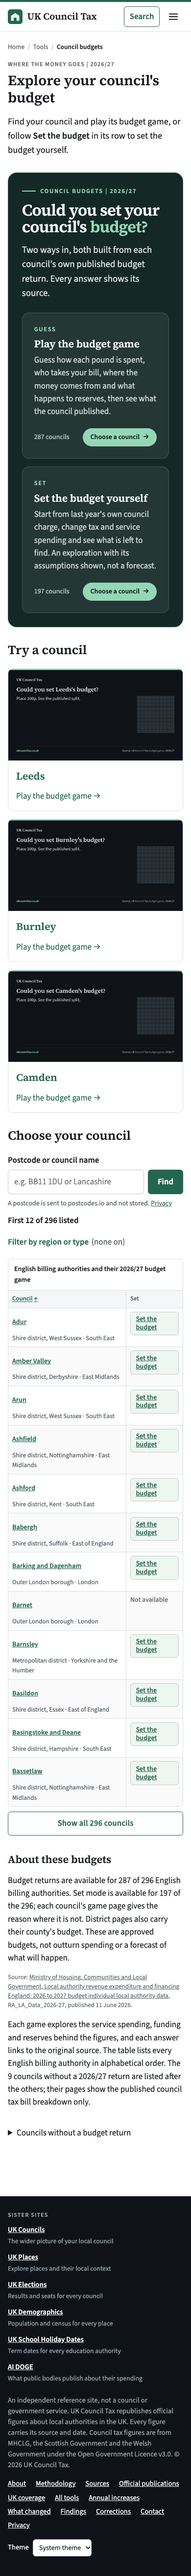
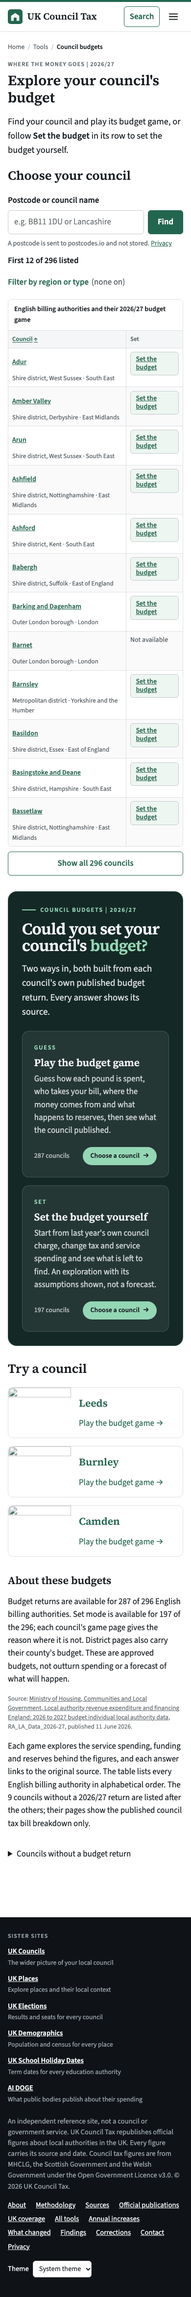
W1 fix pass: picker first on the hub, clear Set doors, Guess starts the game
- Hub: the council picker comes straight after the page head again, so on a
  phone its box, button and first row are on the first screen; the two door
  band and the featured councils follow, the cards as compact rows on phones.
  The original picker test is restored unchanged.
- Set door: an excluded council's reason sits under the doors with a label,
  never inside the door's link text. Burnley's door reads only as the
  scenario game.
- Mode links: no Set link where Set is not offered; Burnley shows Guess and
  the council's own gap.
- Game page: no stacked gap above the mode links; the Guess door starts
  round one once the script runs.
- docs/STATE.md left to its own docs PR; captures retaken from this build
  and compressed (9.4 MB to 3.3 MB).

diff --git a/e2e/council-picker.spec.ts b/e2e/council-picker.spec.ts
@@ -182,14 +182,12 @@ for (const { path, destination, tail } of PAGES) {
       await context.close();
     });
 
-    test("on a phone the picker entry shows the box, its button and the first match", async ({ browser, baseURL }) => {
+    test("on a phone the box, its button and the first match are on the first screen", async ({ browser, baseURL }) => {
       const context = await browser.newContext({ viewport: { width: 375, height: 812 } });
       const page = await context.newPage();
       await page.route("https://static.cloudflareinsights.com/**", (route) => route.abort());
       await page.route("https://cloudflareinsights.com/**", (route) => route.abort());
       await page.goto(`${baseURL}${path}`);
-      // W1 gives the budget hub a hero door into its picker; other hubs open directly on it.
-      if (path === "/tools/budget/") await page.locator('[data-play-door="guess"]').click();
       for (const selector of ["[data-picker-input]", "[data-picker-submit]"]) {
         const box = (await page.locator(selector).boundingBox())!;
         expect(box.y).toBeGreaterThanOrEqual(0);

diff --git a/e2e/helpers/budget-set.ts b/e2e/helpers/budget-set.ts
@@ -133,7 +133,8 @@ export function budgetSetJourneys() {
       await expect(entry).toHaveText('The parish amounts in the budget and tax returns do not reconcile within the published precision.');
       await expect(page.locator('[data-scenario-game-link]')).toHaveAttribute('href','/councils/burnley/budget-game/');
       await expect(page.locator('[data-budget-door="set"]')).toHaveAttribute('href','/councils/burnley/budget-game/');
-      expect(await entry.evaluate(e => e.closest('[data-budget-door]')?.getAttribute('data-budget-door'))).toBe('set');
+      // The reason sits under the doors, labelled, not inside the Set door's link text.
+      expect(await entry.evaluate(e => !!e.closest('[data-budget-doors]') && !e.closest('[data-budget-door]'))).toBe(true);
       expect(await page.evaluate(() => document.documentElement.scrollWidth)).toBe(width);
       await entry.scrollIntoViewIfNeeded();
       await page.screenshot({path:`output/playwright/c2-excluded-${width}-${theme}.png`});

diff --git a/e2e/budget-doors.spec.ts b/e2e/budget-doors.spec.ts
@@ -18,7 +18,9 @@ for (const route of ['', 'leeds/', 'burnley/', 'camden/']) {
       if (route) {
         await expect(page.locator('[data-budget-modes] a').first()).toHaveText('Guess');
         const setDoor = page.locator('[data-budget-door="set"]');
-        await expect(setDoor.locator('[data-budget-set-entry]')).toHaveCount(1);
+        await expect(page.locator('[data-budget-set-entry]')).toHaveCount(1);
+        await expect(setDoor.locator('[data-budget-set-entry]')).toHaveCount(route === 'burnley/' ? 0 : 1);
+        if (route === 'burnley/') await expect(page.locator('[data-budget-modes] a')).toHaveText(['Guess', "The council's own gap"]);
         await expect(page.locator('#game-heading')).toHaveText(`Could you set ${route === 'leeds/' ? 'Leeds' : route === 'burnley/' ? 'Burnley' : 'Camden'}'s budget?`);
       } else {
         await expect(page.locator('th.picker-action')).toHaveText('Set');

diff --git a/src/scripts/budget-game.ts b/src/scripts/budget-game.ts
@@ -314,6 +314,11 @@ for (const root of document.querySelectorAll<HTMLElement>('[data-budget-game]'))
     }
   }
   root.querySelector('[data-game-start]')!.addEventListener('click', start);
+  // W1: the Guess door starts the game itself once the script is running; without it, the link still jumps to the game.
+  root.querySelector('[data-budget-door="guess"]')?.addEventListener('click', event => {
+    if (controls.hidden) return;
+    event.preventDefault(); start();
+  });
   const restore = () => {
     const restored = readScores(location.hash, data.rounds.length);
     if (restored) {scores = restored; summary(true);}

diff --git a/docs/STATE.md b/docs/STATE.md
@@ -1,13 +1,13 @@
-# State | UK Council Tax | 15 November 2026, W1
+# State | UK Council Tax | 15 November 2026, late night
 
-- **Base:** `5bc7bed`, PR 88 merged. C6 levels day staging is on main; the W1 to W3 file hold has ended. Main advanced to `95e0d82` with the PR 91 schedules audit during W1 verification.
-- **W1:** branch `feat/w1-budget-doors`, worktree `~/wt/uct-w1`. Game desk heroes, equal Guess and Set doors, mode links, hub PlayBand and featured cards, phone Set column and eligible score-card invitation. PR evidence includes all local gates, number comparison and captures.
-- **Eligibility:** 197 Set routes. Burnley uses its separate council-gap scenario; the other 98 excluded councils retain their exact reasons. Non-England codes render no entry.
-- **Preserved:** published figures, C1b static-number fixture, game titles and H1 text, opening rail, chart sources and downloads, game arithmetic and CSP policy. The C2 distribution assertion follows the entry inside its containing card link.
-- **Next:** W2 set-page workbench, then W3 controls. W1 adds only mode links on set pages; the workbench redesign remains separate.
-- **Other work:** towns data and pages remain separate sessions; the special-expense schedules audit merged as PR 91. See `docs/PROMPTS-2026-11-15-W1-W3-AND-TOWNS.md` and `docs/TOWNS-RESEARCH-2026-11-15.md`.
+- **Live:** main `b5f8ced` (PR 89, W0), published 15 November 18:47: the budget band with Play and Set doors on the homepage and `/tools/`, the England map card, Set links on 197 rows of `/tools/budget/`, the 404 with the tools.
+- **Not yet restyled:** `/tools/budget/`, `/tools/budget/<slug>/` and `/set/`. That is W1 to W3, which wait on PR 88 because it holds those files.
+- **Open:** PR 88 (C6 levels day staging, draft, waits on Tom's six decisions, defaults in the prompts file); this docs PR (plan and towns research); UK Councils PR 62; Estate Kit PRs 27 and 28.
+- **Next:** `docs/PROMPTS-2026-11-15-W1-W3-AND-TOWNS.md`. Wave 1 now: PR 88 decisions and merge (Opus), towns data layer (Opus), special expense council schedules (Codex). Wave 2: W1 (Codex) beside towns pages (Opus). Then W2 (Codex), then W3 (Opus).
+- **Town league table:** asked for by Tom on 15 November. Research in `docs/TOWNS-RESEARCH-2026-11-15.md`: the full Band D formula is exact to the penny where a council has no special expenses (Burnley, Cornwall checked), wrong for the 48 special expense councils with parishes (Rushcliffe, Chorley, Westminster checked). Constituency via the ONS parish to ward to constituency chain, 96.3% clean match. Decisions T1 to T5 for Tom in the prompts file; T1 supersedes the A4 "no ranking of parishes" line for the towns routes.
 - **Held data:** all 14 registry reorganisation objects unchanged and not rendered. Seats by party held on both sites.
-- **Decisions:** D10; T1 to T5; plan section 10.3. Check GitHub for the current position before acting.
+- **Decisions waiting:** PR 88 one to six; D10; T1 to T5; plan section 10.3 (X3, X4, Shepway slug, seats source, audit identity, section 114 register) by 15 December.
+- **Untracked:** `output/town-research/` in the main checkout (45 MB of ONS exports and scratch scripts); session 2 downloads the portal CSVs again, so it can be deleted on Tom's yes.
 - **Binding dates:** levels day staged by mid January 2027; links check before 10 February; freeze 20 March; reversal May to June 2027.
-- **Local trap:** start Astro preview manually on 44321 and use `E2E_BASE_URL`; stop it explicitly afterwards. Copy the ignored raw ODS files before running budget tests in a fresh worktree.
-- **Release:** W1 is for review only. No merge or deployment in this session.
+- **Local trap:** Astro 7 `astro preview` detaches, so Playwright's own webServer fails locally. Start `npx astro preview --host 127.0.0.1 --port 44321`, run with `E2E_BASE_URL=http://127.0.0.1:44321`, then `npx astro preview stop`.
+- **Plan:** `docs/PLAN-2026-11-13-ASSESSMENT-AND-NEXT.md` section 10 and `docs/DESIGN-AUDIT-2026-11-15.md`. Session detail belongs in PR bodies.
